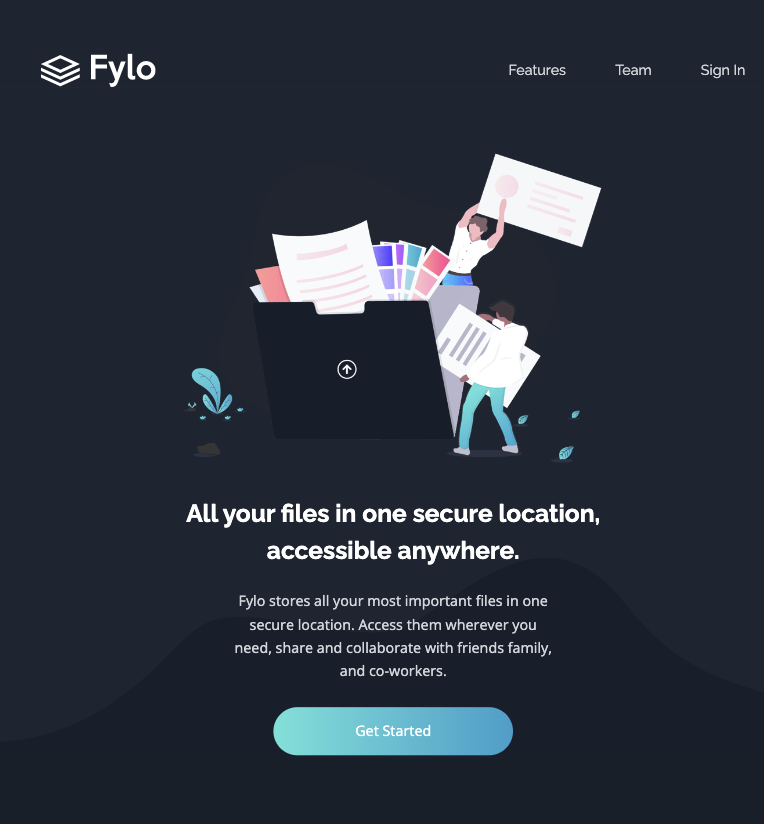
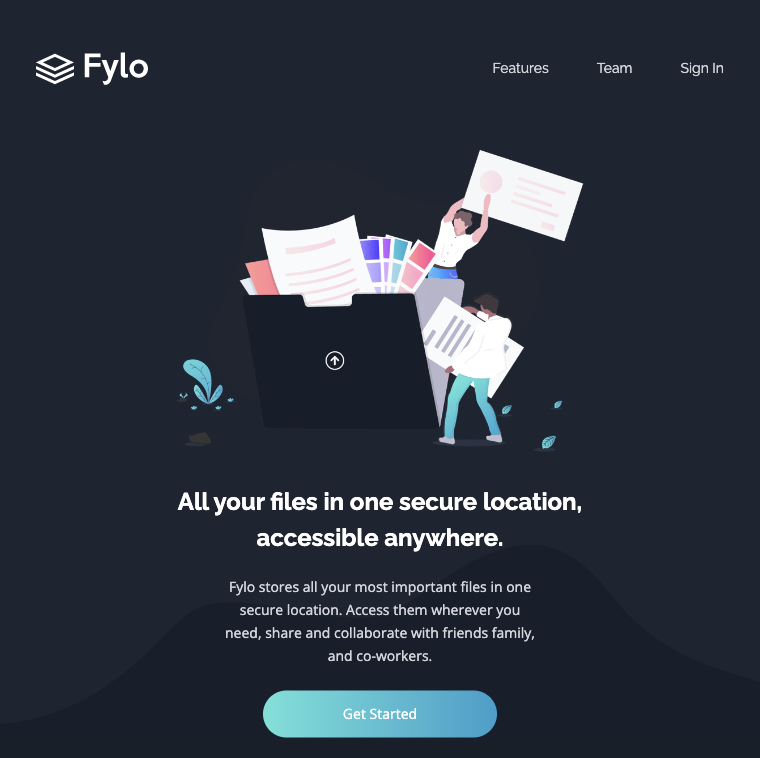
updated ss photos

diff --git a/index.html b/index.html
@@ -12,7 +12,7 @@
 </head>
 <body class="font-openSans text-gray-300 leading-relaxed font-light text-sm xl:text-base">
 
-  <header class="px-5 pt-5 lg-pt-10 bg-intro md:pt-14 md:px-10 lg:px-12 2xl:px-16">
+  <header class="px-5 pt-7 bg-intro md:pt-14 md:px-10 lg:px-12 2xl:px-16">
     <nav class="flex justify-between items-center">
       <a href="#" title="Flyo Logo"><img class="w-20 md:w-28" src="images/logo.svg" alt="Flyo Logo"></a>
       <ul class="flex gap-5 font-railway md:gap-12">

diff --git a/public/css/main.css b/public/css/main.css
@@ -914,6 +914,10 @@ video {
   padding-top: 1.25rem;
 }
 
+.pt-7 {
+  padding-top: 1.75rem;
+}
+
 .text-center {
   text-align: center;
 }
